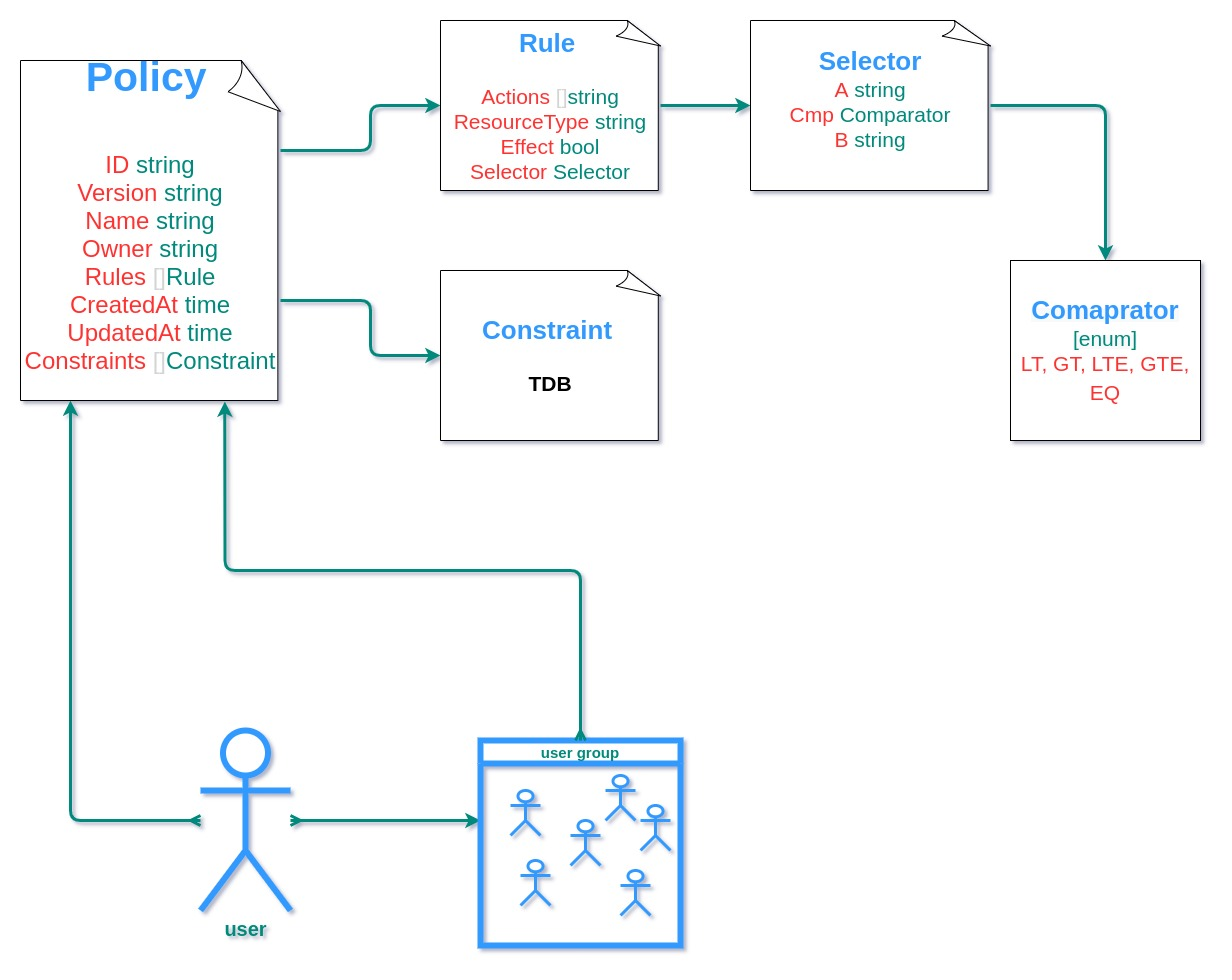
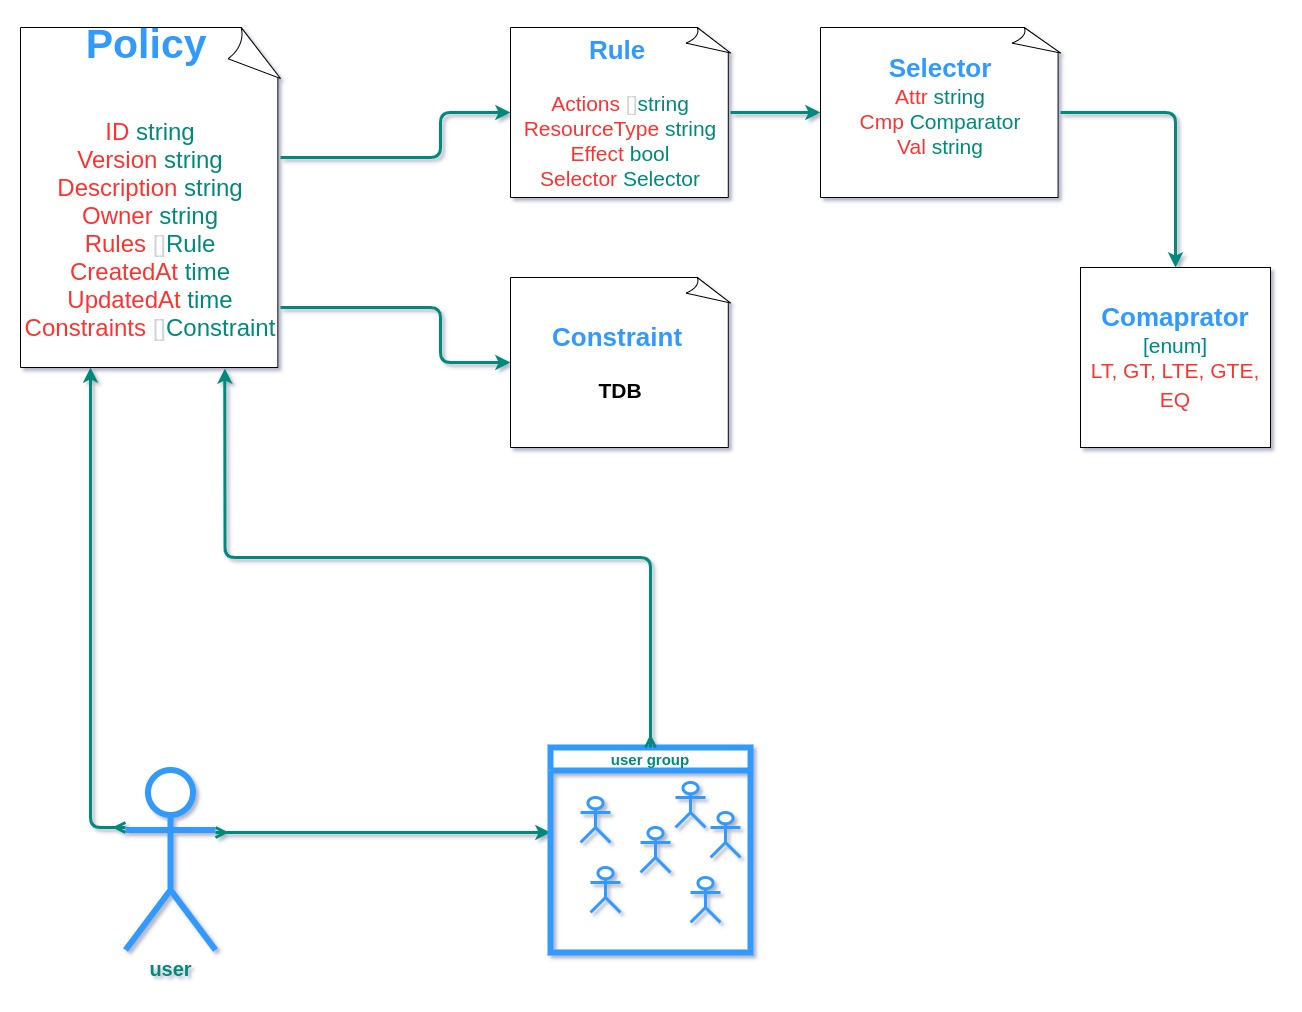
Add Policy and examples

diff --git a/mips/0002-IAM.md b/mips/0002-IAM.md
@@ -6,54 +6,80 @@ discussions-to:
 status: Draft
     type: Standards Track
 category (*only required for Standards Track): Core
-created: 2021-04-05
+created: 2021-04-06
 requires (*optional):
 replaces (*optional):
 ---
 
 ## Simple Summary
 Identity and Access control management for Mainflux users and Things. Mainflux IoT platform uses `Auth` service for access control and entity management is based on ownership.
-To support more advance access control and shared control between group members, as well as user roles with different permissions, `Auth` service needs to be enriched with 
+To support more advanced access control and shared control between group members, as well as user roles with different permissions, `Auth` service needs to be enriched with 
 policies and roles to support such sophisticated access control.
 
 ## Abstract
-Currently, `Auth` service us used to issue Auth Keys for the users and for handling Groups API for both Users and Things. When user is using Things and Channels API, the actual 
-authorization is done on the service layer accessing only those entities owned by the user. This is not practical because different stages of access control are scattered between
+Currently, `Auth` service is used to issue Auth Keys for the users and for handling Groups API for both Users and Things. When a user is using Things and Channels API, the actual authorization is done on the service layer accessing only those entities owned by the user. This is not practical because different stages of access control are scattered between
 multiple services with no defined flow. The main goal of this paper is to specify desired flow for access control with simplicity and efficiency in mind. It's important that
 access control is reliable, quick, and works correctly. For that reason, the initial version of this specification will introduce some constraints regarding Groups and access
-rights evaluation. This means that the entire access control mechanism needs to be redesigned and reimplemented. The purpose of this paper is to specify a new architecture and propose implementation that addresses aforementioned challenges.
+rights evaluation. This means that the entire access control mechanism needs to be redesigned and reimplemented. The purpose of this paper is to specify a new architecture and propose an implementation that addresses the aforementioned challenges.
 
 ## Motivation
 There are two main authentications and authorization flows:
 1) Users authentication and authorization
 2) Things authentication and authorization
 
-Currently, all the user actions rely on ownership bases - the user can access only those entities owned by him. In the real-world use-cases the one will usually want to be able to share access with other users, but also prevent other users from accessing or changing sensitive or important information. Also, users can't send or receive messages at the moment. To do that, you need to create a Thing, connect it to the Channel, and send a message using that Thing. That's complicated and impractical for the users that, say, want to send some commands to its devices.
+Currently, all the user actions rely on ownership bases - the user can access only those entities owned by him. In the real-world use-cases, the one will usually want to be able to share access with other users, but also prevent other users from accessing or changing sensitive or important information. Also, users can't send or receive messages at the moment. To do that, you need to create a Thing, connect it to the Channel, and send a message using that Thing. That's complicated and impractical for the users that, say, want to send some commands to their devices.
 
-Things authentication and authorization rely on things interconnection using Channels. This is fine, but it does not allow fine-grained access control such as allowing things to only publish or only subscribe, or to access only a specific topic rather than any topic on the given Channel. Also, as of introduction of Groups, Channel concept lost its purpose. Channels are nothing but simplified Thing Groups (Groups without hierarchy).
+Things authentication and authorization rely on things interconnection using Channels. This is fine, but it does not allow fine-grained access control such as allowing things to only publish or only subscribe, or to access only a specific topic rather than any topic on the given Channel. Also, as of the introduction of Groups, the Channel concept lost its purpose. Channels are nothing but simplified Thing Groups (Groups without hierarchy).
 
 
 ## Specification
-Access control needs to be fast. Really fast. Since Things can be sending messages at the rate of thousands of messages per minute, and each message needs to be authorized, authorization is the most frequently used operation in the system and will become
-performance bottleneck if not implemented with that in mind. This means that, no matter how fast access control evaluation is, we'll need to use caching. That also implies some other compromises that will be addressed in the following sections. In the following chapters we'll discuss different aspects of the access controls and propose solution architecture design.
+Access control needs to be fast. Since Things can be sending messages at the rate of thousands of messages per minute, and each message needs to be authorized, authorization is the most frequently used operation in the system and will become a performance bottleneck if not implemented with that in mind. This means that, no matter how fast access control evaluation is, we'll need to use caching. That also implies some other compromises that will be addressed in the following sections. In the following chapters, we'll discuss different aspects of the access controls and propose solution architecture design.
 
 ### Access control and Groups
-Access control is very tightly related to entity groups. Group concept is natural - its used to join entities, usually by some criteria. There are two types of Groups - Things and Users groups. For example, the one can create a Group of Things that represent one room. Please note that group membership is explicit - you need to add Things or Users to the group. There is implicit grouping such as "all Things with metadata field A that has value B" or "all users with name that start with 'John'". The groups are organized in hierarchies, forming a tree-like structures. While groups can simply be used for semantic organization and representation of entities in system, it makes sense to use them for access control.
+Access control is very tightly related to entity groups. Group concept is natural - it is used to join entities, usually by some criteria. There are two types of Groups - Things and Users groups. For example, one can create a Group of Things that represent one room. Please note that group membership is explicit - you need to add Things or Users to the group. There is implicit grouping such as "all Things with metadata field A that has value B" or "all users with a name that starts with 'John'". The groups are organized in hierarchies, forming tree-like structure. While groups can simply be used for semantic organization and representation of entities in the system, it makes sense to use them for access control. From now on, in this document Role and Group terminology will be used interchangeably.
 
 ### Roles and RBAC
-When talking about access control, two most common approaches are RBAC and ABAC. While the ABAC provides more fine-grained access control and many great features, RBAC is more natural approach when it comes to access controls for users. Roles are nothing but artificial attributes attached to the user for the sole purpose of access control. Mainflux platform has a concept of groups explained in the previous chapter. Roles and groups, from the access control standpoint, can be merged: Role = Group. The same goes for Things groups.
+When talking about access control, the two most common approaches are RBAC and ABAC. While the ABAC provides more fine-grained access control and many great features, RBAC is a more natural approach when it comes to access controls for users. Roles are nothing but artificial attributes attached to the user for the sole purpose of access control. Mainflux platform has a concept of groups explained in the previous chapter. Roles and groups, from the access control standpoint, can be merged: Role = Group. The same goes for Things groups.
 
 ### Hierarchy
 In the initial implementation of this MIP - The group hierarchy will be ignored. Only the direct group membership will be taken into account when evaluating access control rules. **The sequel MIP addressing this issue will be created to introduce hierarchy.**
 
 ### Policies
 <!-- How does policy look like? How to assign policies? Policy-role relation. -->
-The policies are central new entities around which access control is going to be organized. Mainflux Policy is 
+The policies are central new entities around which access control is going to be organized. Mainflux Policy is a new entity that consists of the Rules and Constraints. A Policy can be assigned to User, Thing, or Group. The User, Thing, or Group can have 0 or multiple policies assigned to them. Policies for a single entity are evaluated in the following order:
+    1) Policies attached to the entity
+    2) Policies attached to the groups entity is a direct member of
+    3) Policies attached to the groups in that are higher in hierarchy
+In the other words, policies are evaluated from the bottom up (in the sense of entity hierarchy defined by groups).
+
+#### Evaluation
+The result of policy chain evaluation can be one of two states: `allowed` or `forbidden`.
+Policy is evaluated as `allowed` if **all** the matching Rules are evaluated successfully.
+Policy is evaluated as `forbidden` if **any** the matching Rules are evaluated unsuccessfully.
+If there is no matching rules, the next Policy in the chain is taken for evaluation.
+If there is no matching rules in the entire chain, policy is evaluated `forbidden`.
+
+Let's take a look at the couple of examples:
+![example 0](../assets/mip-0002/example0.jpg)
+
+In this example, there is no policy with rules that match the request. The result is `forbidden`.
+
+![example 1](../assets/mip-0002/example1.jpg)
+
+In this example, **Policy 11** allows the action, and **Policy 7** forbids it. The result of evaluation is `allowed`. The reason: policy that's directly attached to the entity has higher priority than policies attached to its groups. This mechanism is powerful because it allows access control override but also can be dangerous if not applied properly.
+
+![example 2](../assets/mip-0002/example2.jpg)
+
+In this example, there is no direct policy that matches the provided criteria. For that reason, Groups are taken in account. **Policy 7**, that's attached to the Group C allows access, while **Policy 9** of Group D does not. The result is `forbidden`. On the same hierarchy level, there **must be at least one policy that allows and no policy that forbids access** to evaluate positively. In the other words, if there is a singe rule that evaluates as `forbidden`, the entire request is evaluated as `forbidden`, respecting the hierarchy when it comes to evaluation order (entity -> groups -> ancestor groups).
+
+Rules are the core of the policy. Each policy has at least one rule and each rule belongs to exactly one policy.
 ![policy diagram](../assets/mip-0002/policy.jpg)
 
-### Caching - client or server side?
+### Rules
 
-### ABAC?
+### Caching - client or server-side
+
+### ABAC
 
 ## Rationale
 The rationale fleshes out the specification by describing what motivated the design and why particular design decisions were made. It should describe alternate designs that were considered and related work, e.g. how the feature is supported in other languages.
